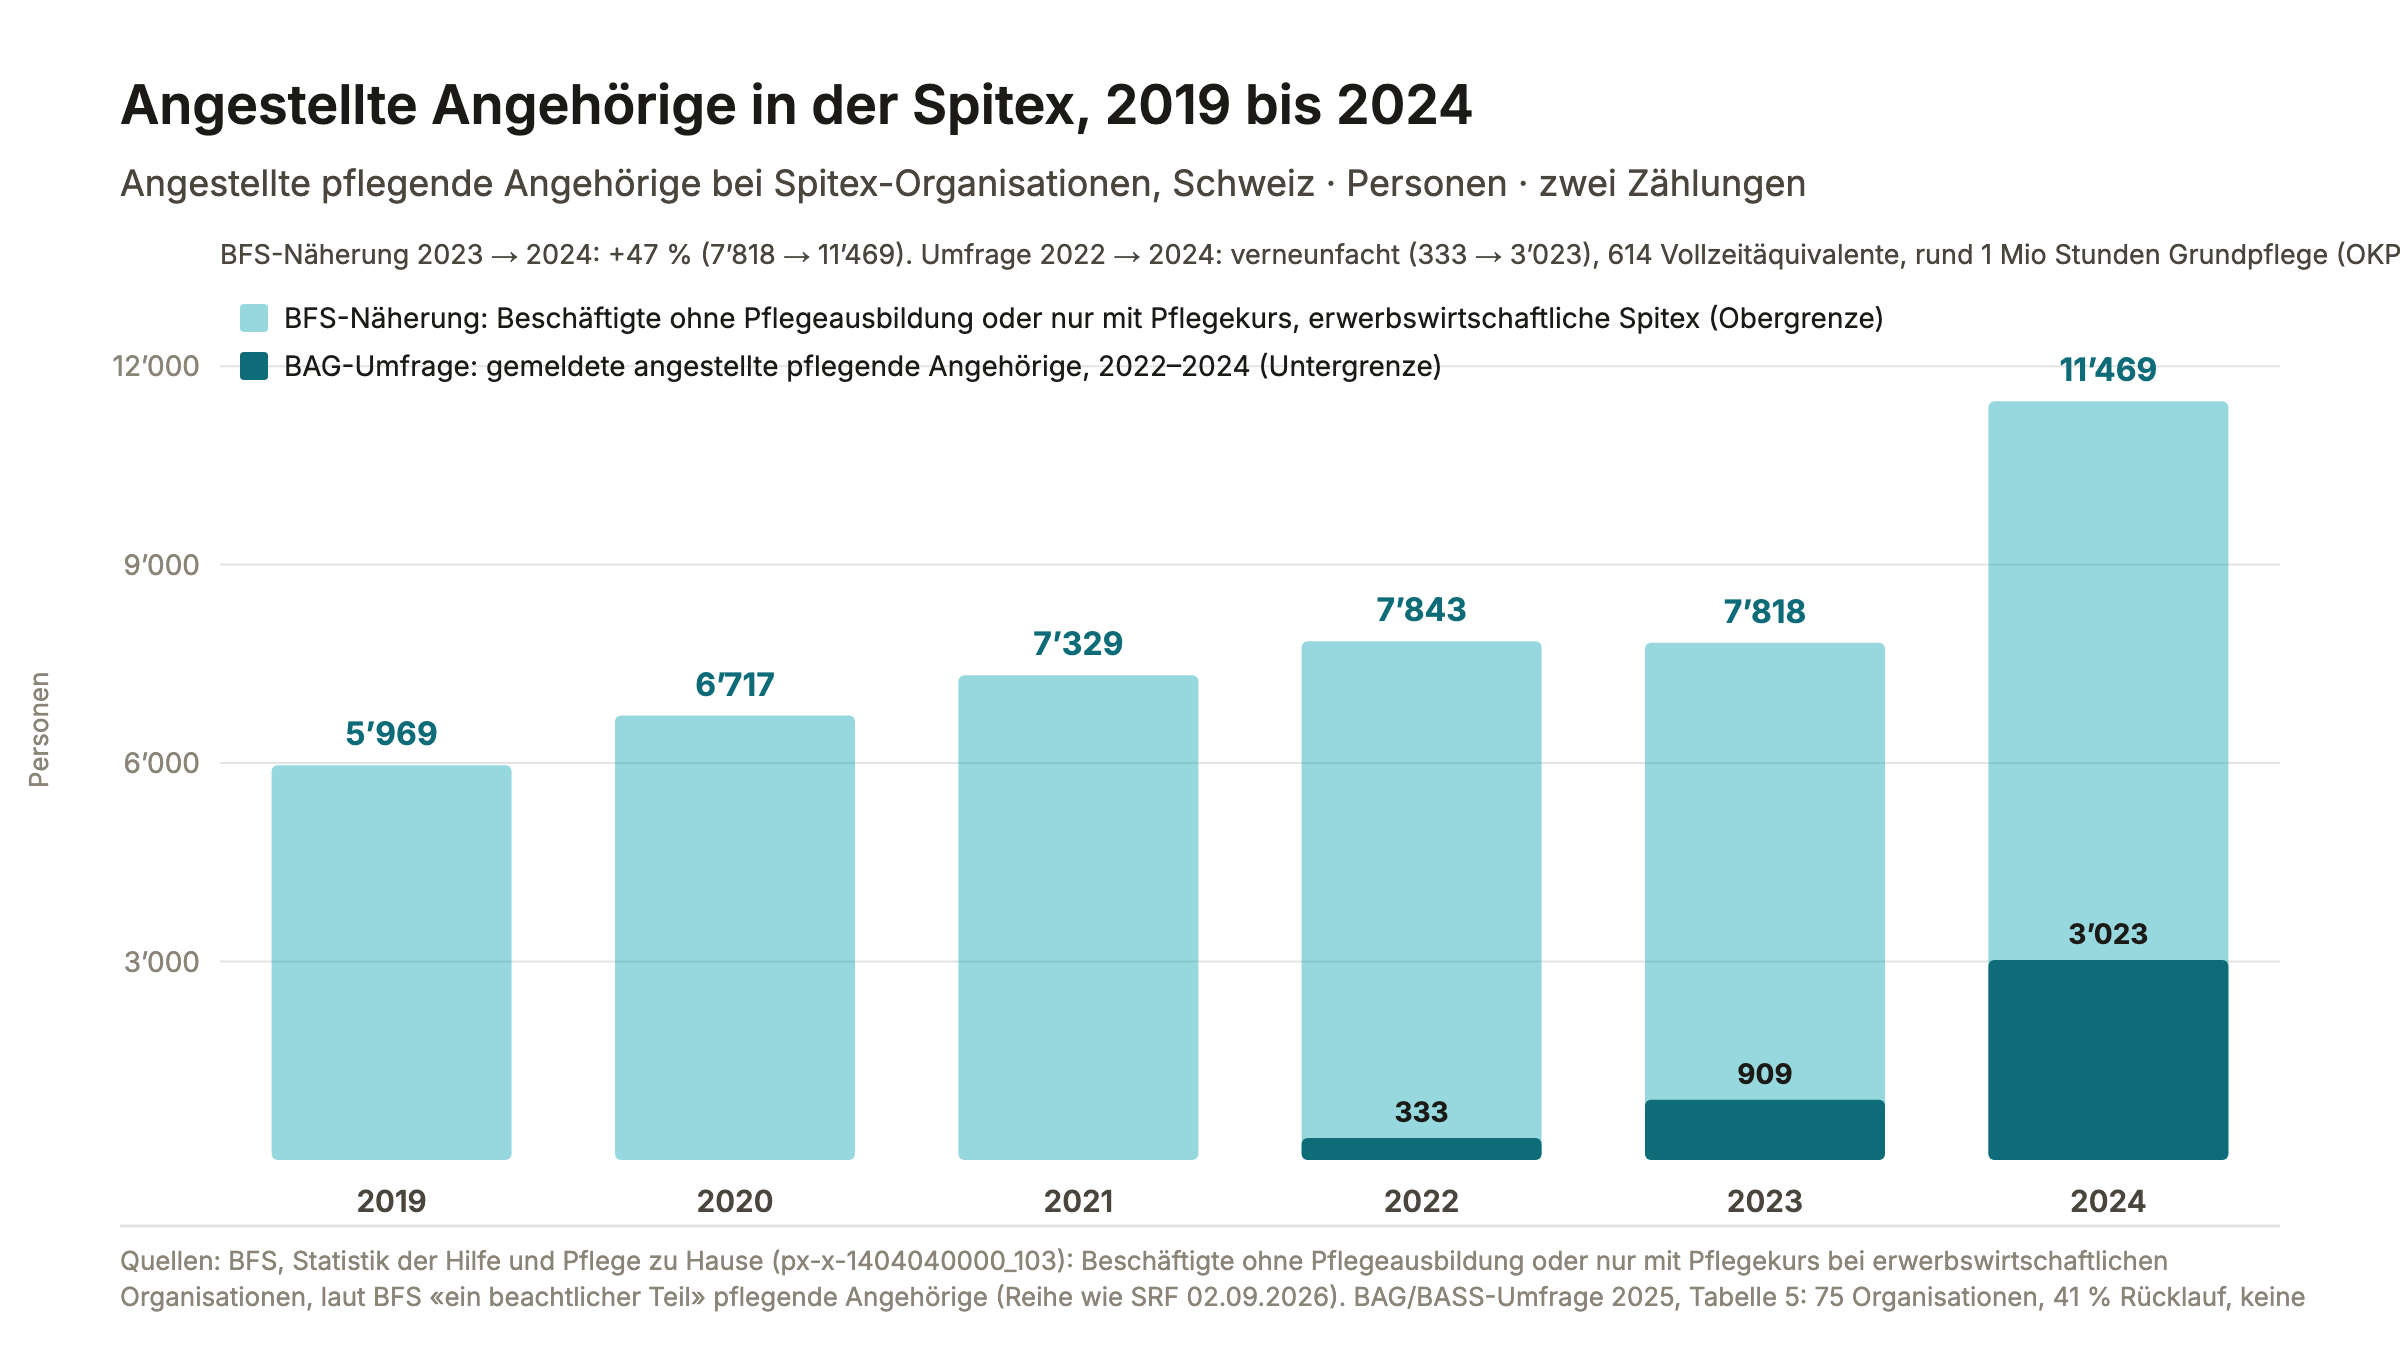
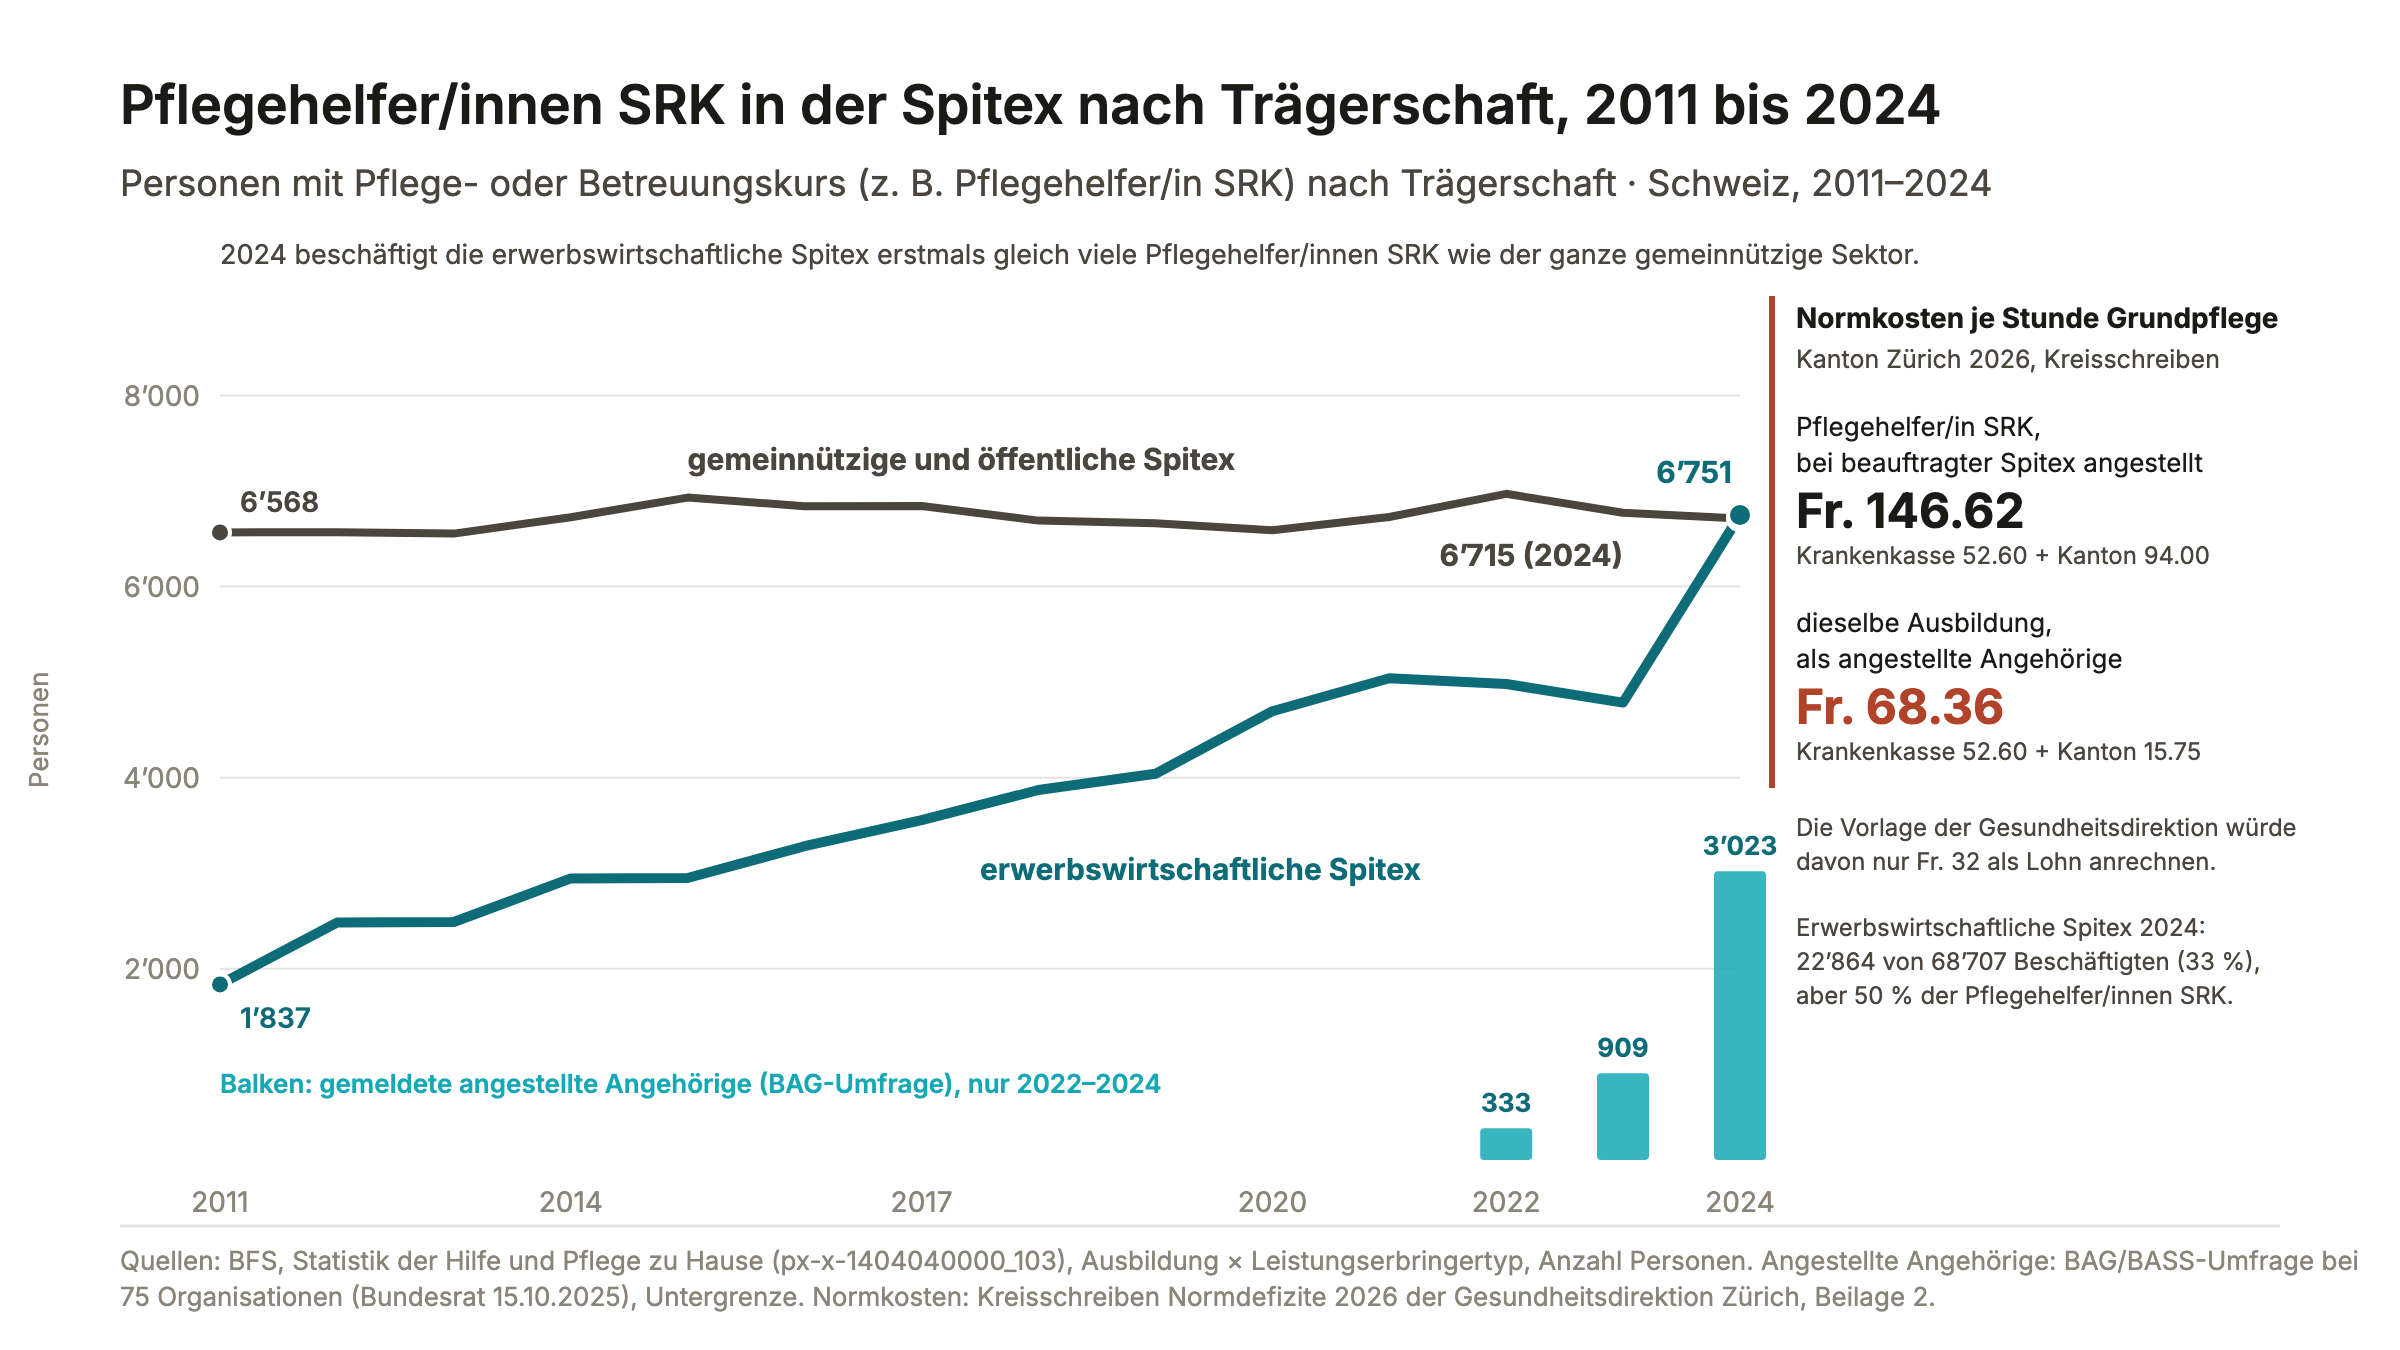
Grafik bezahlt neu: Pflegehelfer/innen SRK nach Trägerschaft, gleiche Ausbildung, anderer Tarif

diff --git a/bedarf-2040/README.md b/bedarf-2040/README.md
@@ -3,7 +3,7 @@
 Zwei Grafiken:
 
 - `grafik/bedarf-balken.svg`: **Bedarf 2040: bis zu 900'000 Menschen ab 65 mit Pflege oder Hilfe.** Personen ohne Doppelzählung, 2023/24 gemessen, 2040 und 2050 bei heutigen Anteilen. Der Stapel liest sich von unten nach oben wie ein Lebenslauf: zu Hause nur mit Angehörigen (fest die Untergrenze, gestrichelt darüber die Obergrenze), mit Spitex (davon ein Strich bezahlt), nur Spitex, Übergang (Kurzzeitaufenthalt), Heim zuoberst.
-- `grafik/bezahlt.svg`: **Bezahlte Angehörigenpflege: zwei Zählungen.** Angestellte pflegende Angehörige nach BAG-Umfrage und nach BFS-Näherung.
+- `grafik/bezahlt.svg`: **Gleiche Ausbildung, anderer Tarif: Pflegehelfer/innen SRK in der Spitex.** Personen mit Pflege- oder Betreuungskurs (z. B. Pflegehelfer/in SRK) nach Trägerschaft 2011–2024 (BFS, `bfs_spitex_personal_ausbildung_schweiz.csv`, Kategorie 154), darin die gemeldeten angestellten Angehörigen (BAG-Umfrage), dazu die Normkosten je Stunde Grundpflege im Kanton Zürich 2026 für dieselbe Ausbildung: 146.62 Franken bei der beauftragten Spitex, 68.36 als angestellte Angehörige.
 
 Je auch als PNG und in der schlichten Dokumentversion (`-schlicht`).
 
@@ -56,6 +56,17 @@ personen(jahr, gruppe) = Σ_{geschlecht, alter} bevölkerung(jahr, geschlecht, a
 | Pflegeheim, Langzeit | 86'000 | 129'000 | 153'000 |
 | **Total (Untergrenze)** | **519'000** | **734'000 (+41 %)** | **838'000 (+62 %)** |
 | Total mit Obergrenze der Angehörigen-Hilfe | 643'000 | 907'000 | 1'034'000 |
+
+## Pflegehelfer/innen SRK nach Trägerschaft (Grafik «Gleiche Ausbildung, anderer Tarif»)
+
+| Jahr | gemeinnützig und öffentlich | erwerbswirtschaftlich | Anteil am Personal gemeinn. | Anteil erwerbsw. |
+|---|---|---|---|---|
+| 2011 | 6'568 | 1'837 | 20 % | 32 % |
+| 2017 | 6'844 | 3'557 | 18 % | 30 % |
+| 2020 | 6'590 | 4'697 | 16 % | 31 % |
+| 2024 | 6'715 | 6'751 | 15 % | 30 % |
+
+Quelle: BFS-Würfel `px-x-1404040000_103`, Dimension «Ausbildung/Hauptfunktion», Code 154 «Pflege-/Betreuungskurse (z. B. Pflegehelfer/in SRK)», Anzahl Personen, Schweiz. Erwerbswirtschaftliche Spitex 2024: 22'864 von 68'707 Beschäftigten (33 Prozent), aber 50 Prozent der Pflegehelfer/innen SRK. Grenzen: die Kategorie zählt Ausbildung, nicht Tätigkeit («nur Grundpflege» lässt sich nicht isolieren; die Hauptfunktion ist im Würfel eine getrennte Aufschlüsselung), und sie sagt nichts über Verwandtschaft; die BAG-Umfrage ist die einzige direkte Zählung angestellter Angehöriger. Der Tarifvergleich gilt für Zürich 2026; die Ungleichbehandlung liegt an der Person (verwandt), nicht an der Trägerschaft.
 
 ## Lesehinweise
 

diff --git a/CHANGELOG.md b/CHANGELOG.md
@@ -8,6 +8,7 @@ Erste öffentliche Fassung. Grafik-Satz 2 der Infografiken zur Angehörigenbetre
 - `bedarf-2040/`: Stapel liest sich von unten nach oben als Lebenslauf (nur Angehörige, mit Spitex, nur Spitex, Übergang, Heim); der bezahlte Teil (3'023 angestellte Angehörige 2024, bis 11'469 nach BFS-Näherung) ist als Strich markiert.
 - Alle Grafiken ohne Kopfzeile mit Web-Adresse, je in Markenversion und schlichter Dokumentversion.
 - Nachtrag gleichentags: Der Keil der Schere hat zwei Schichten: kräftig zwischen Menschen ab 80 und Obsans Quote je Person ab 65, blass darunter bis zur Quote je Person ab 80 (eigene Erweiterung). Betrifft `schere-2040/grafik/schere*` in allen Fassungen.
+- Nachtrag gleichentags: Grafik `bezahlt` neu als «Gleiche Ausbildung, anderer Tarif: Pflegehelfer/innen SRK in der Spitex»: Pflegehelfer/innen SRK nach Trägerschaft 2011–2024 (gemeinnützig 6'715, erwerbswirtschaftlich 6'751 im Jahr 2024), BAG-Balken der angestellten Angehörigen, Tarifkasten Kanton Zürich 2026 (146.62 gegenüber 68.36 Franken). Datengrundlage war bereits im Paket; Herleitung in `bedarf-2040/README.md`.
 - Nachtrag gleichentags: Im Bedarf-Stapel sitzt die Obergrenze der Angehörigen-Hilfe (gestrichelt) direkt über dem festen Angehörigen-Block statt als Kappe oben; das Pflegeheim schliesst den Stapel ab. Betrifft `bedarf-2040/grafik/bedarf-balken*` und `bedarf-kompakt*`.
 - Nachtrag gleichentags: Kompaktfassungen `schere-kompakt` (nur die vier Kurven und der Keil) und `bedarf-kompakt` (zwei Stapel, direkte Beschriftung), je Marke und schlicht, in `schere-2040/grafik/` und `bedarf-2040/grafik/`. Gleiche Daten, reduzierte Darstellung für schnelle Lektüre.
 
